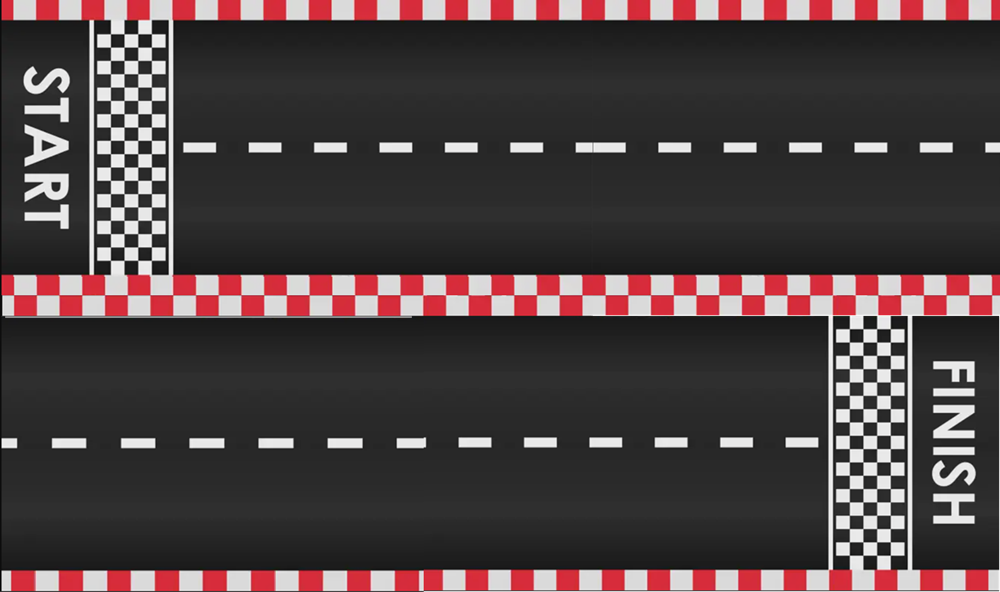
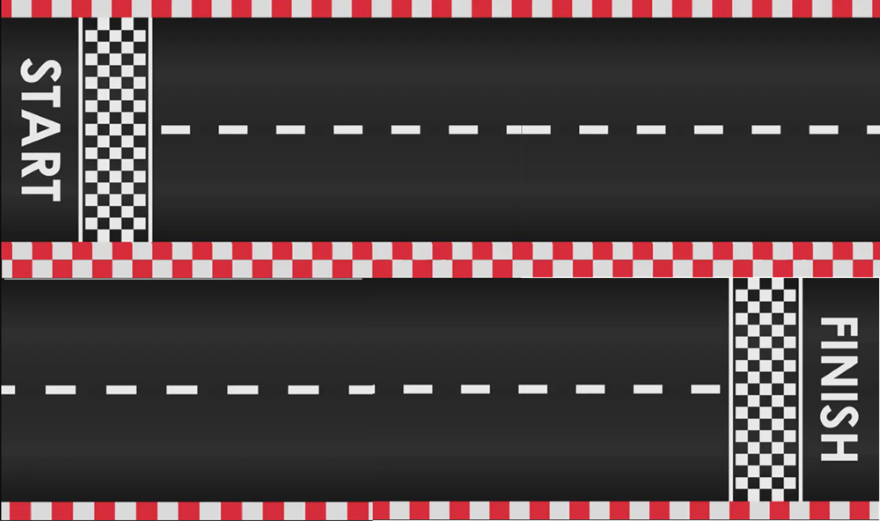
Ajustado dimensões da tela, posições dos carros e adicionado imagem de vitória

diff --git a/main.py b/main.py
@@ -1,7 +1,8 @@
 import pygame
 import random
+from funcoes import limparTela
 pygame.init()
-tamanho = (1000,592)
+tamanho = (880,521)
 clock = pygame.time.Clock()
 tela = pygame.display.set_mode( tamanho )
 icone = pygame.image.load("assets/icone.ico")
@@ -13,13 +14,14 @@ fundo = pygame.image.load("assets/fundo.png")
 carro1 = pygame.image.load("assets/carro1.png")
 carro2 = pygame.image.load("assets/carro2.png")
 carro3 = pygame.image.load("assets/carro3.png")
+telaDeVitoria = pygame.image.load("assets/papapa.png")
 
 movXCar1 = 0
 movXCar2 = 0
 movXcar3 = 0
-posYCar1 = 30
-posYCar2 = 210
-posYcar3 = 110
+posYCar1 = 25
+posYCar2 = 170
+posYcar3 = 90
 
 vitoria = pygame.mixer.Sound("assets/vitoria.mp3")
 vitoria.set_volume(0.5)
@@ -49,35 +51,39 @@ while True:
             somDaVitoria = True
         
     
-    if movXCar1 > 1000:
+    if movXCar1 > 880:
         movXCar1 = 0
-        posYCar1 = 330
+        posYCar1 = 290
         
-    if movXCar2 > 1000:
+    if movXCar2 > 880:
         movXCar2 = 0
-        posYCar2 = 500
+        posYCar2 = 430
     
-    if movXcar3 > 1000:
+    if movXcar3 > 880:
         movXcar3 = 0
-        posYcar3 = 400
+        posYcar3 = 355
     
     fonte = pygame.font.Font("freesansbold.ttf",60)
     textoVermelho = fonte.render("Vermelho Ganhou!", True, branco)
     textoAmarelo = fonte.render("Amarelo Ganhou!", True, branco)
     textoAzul = fonte.render("Azul Ganhou!", True, branco)
     
-    if posYCar1 == 320 and movXCar1 >= 900 and movXCar1 > movXCar2:
-        tela.blit(textoVermelho, (270,70))
+    if posYCar1 == 290 and movXCar1 >= 800 and movXCar1 > movXCar2:
+        tela.blit(telaDeVitoria, (0,0))
         acabou = True
         
-    elif posYCar2 == 500 and movXCar2 >= 900 and movXCar2 > movXCar1:
-        tela.blit(textoAmarelo, (270,300))
+    elif posYCar2 == 430 and movXCar2 >= 800 and movXCar2 > movXCar1:
+        tela.blit(telaDeVitoria, (0,0))
         acabou = True
         
-    elif posYcar3 == 400 and movXcar3 >= 900 and movXcar3 > movXCar1 and movXcar3 > movXCar2:
-        tela.blit(textoAzul, (270, 180))
+    elif posYcar3 == 355 and movXcar3 >= 800 and movXcar3 > movXCar1 and movXcar3 > movXCar2:
+        tela.blit(telaDeVitoria, (0,0))
         acabou = True
-    
+        
+
+
+        
+        
     
     pygame.display.update()
     clock.tick(60)

diff --git a/funcoes.py b/funcoes.py
@@ -1,0 +1,11 @@
+from os import system
+
+
+def limparTela():
+    system("Cls")
+    
+    
+    
+    
+    
+    
